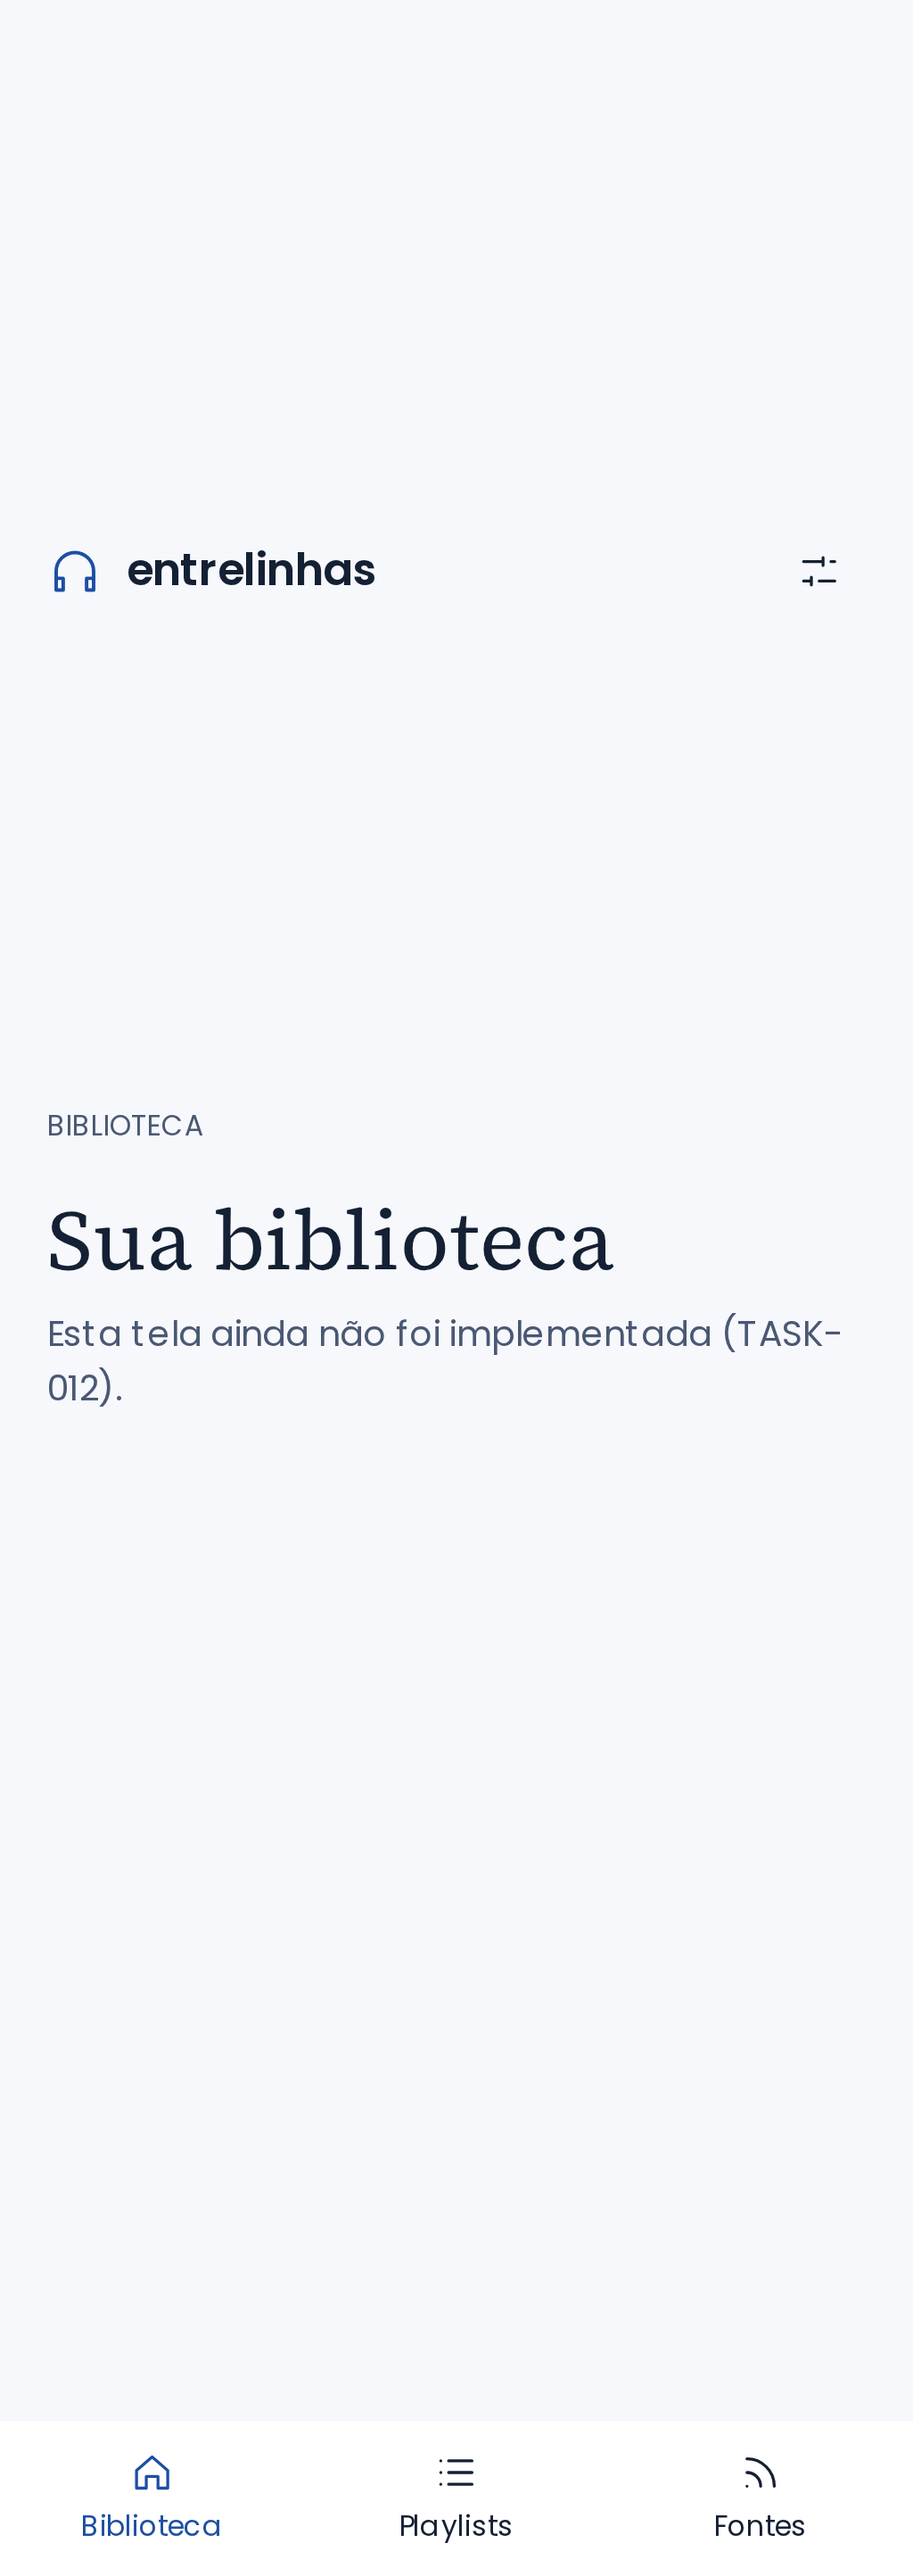
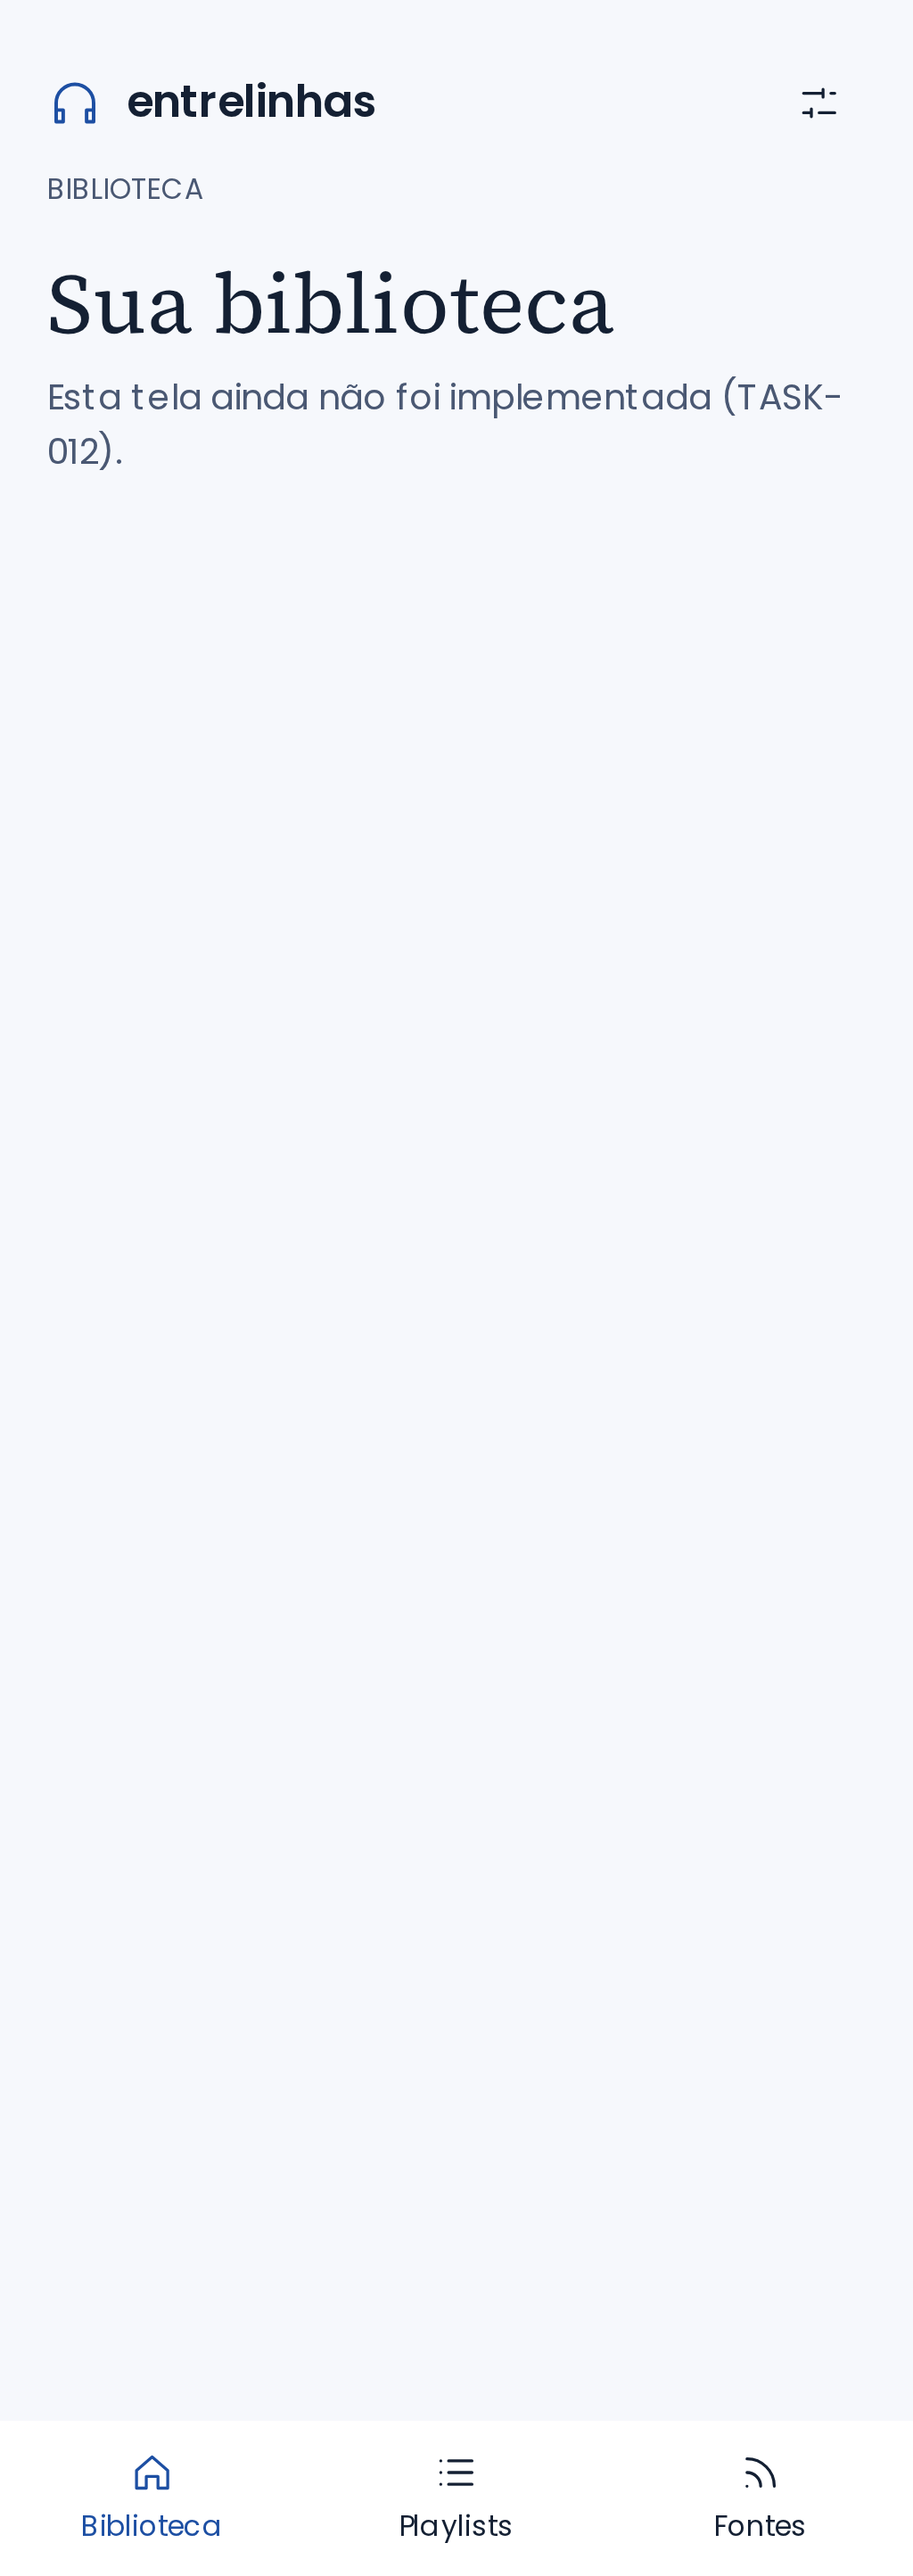
fix(app): mobile layout, menu focus and late logout (TASK-005 re-review)
Second Codex review of 54d6caa; each finding reproduced first:
- mobile grid had min-height 100vh with stretched rows, pushing the header to y=224 CSS px;
  align-content:start, asserted in Chromium mobile (header y < 60) and re-captured evidence.
- choosing a destination in the mobile menu moves focus to <main> instead of losing it.
- logout bumps the session generation before the request, so a login finished meanwhile wins.
Also: fixed two test races (redirect asserted before <Navigate> ran; release before handler)
found while chasing a flaky run; 6 consecutive green runs. RESUME documents that codex exec
needs '< /dev/null' (a worker hung on stdin earlier).

diff --git a/apps/frontend/src/app/session.test.tsx b/apps/frontend/src/app/session.test.tsx
@@ -36,10 +36,22 @@ test('preference update without a session keeps the anonymous state', async () =
 
 test('unmounting during the session load aborts without updating state', async () => {
   let release: () => void = () => undefined;
-  server.use(http.get('/v1/session', () => new Promise<Response>((resolve) => (release = () => resolve(HttpResponse.json({}))))));
+  let called: () => void = () => undefined;
+  const handlerCalled = new Promise<void>((r) => (called = r));
+  server.use(
+    http.get(
+      '/v1/session',
+      () =>
+        new Promise<Response>((resolve) => {
+          release = () => resolve(HttpResponse.json({}));
+          called();
+        }),
+    ),
+  );
   const errors = vi.spyOn(console, 'error').mockImplementation(() => undefined);
   const { unmount } = render(<SessionProvider>conteúdo</SessionProvider>);
   expect(screen.getByText('conteúdo')).toBeInTheDocument();
+  await handlerCalled;
   unmount();
   release();
   await new Promise((r) => setTimeout(r, 20));
@@ -98,5 +110,33 @@ describe('review TASK-005 races', () => {
     release();
     await new Promise((r) => setTimeout(r, 20));
     expect(result.current.state.status).toBe('authenticated');
+  });
+
+  test('a slow logout cannot erase a session obtained afterwards (re-review #3)', async () => {
+    let release: () => void = () => undefined;
+    let called: () => void = () => undefined;
+    const handlerCalled = new Promise<void>((r) => (called = r));
+    server.use(
+      http.delete(
+        '/v1/session',
+        () =>
+          new Promise<Response>((resolve) => {
+            release = () => resolve(new HttpResponse(null, { status: 204 }));
+            called();
+          }),
+      ),
+    );
+    const { result } = renderHook(() => useSession(), { wrapper });
+    await waitFor(() => expect(result.current.state.status).toBe('anonymous'));
+    act(() => result.current.signedIn(sessionFor(0, 'dark')));
+    let pending: Promise<void> = Promise.resolve();
+    act(() => {
+      pending = result.current.signOut();
+    });
+    await handlerCalled;
+    act(() => result.current.signedIn(sessionFor(1, 'dark')));
+    release();
+    await act(() => pending);
+    expect(result.current.state).toMatchObject({ status: 'authenticated', session: { profile: { id: 'prof_ana' } } });
   });
 });

diff --git a/apps/frontend/src/app/AppShell.tsx b/apps/frontend/src/app/AppShell.tsx
@@ -1,5 +1,5 @@
 import { useEffect, useId, useRef, useState } from 'react';
-import { NavLink, Outlet } from 'react-router';
+import { NavLink, Outlet, useLocation } from 'react-router';
 import { Avatar, Badge, Button, Icon, IconButton, Toggle, type IconName } from '../components';
 import type { Session } from '@entrelinhas/contracts';
 import { useSession } from './session';
@@ -62,6 +62,16 @@ export function AppShell() {
   const [menuOpen, setMenuOpen] = useState(false);
   const menuId = useId();
   const menuButton = useRef<HTMLButtonElement>(null);
+  const main = useRef<HTMLElement>(null);
+  const focusMainAfterNavigation = useRef(false);
+  const { pathname } = useLocation();
+
+  // After choosing a destination in the mobile menu the focused link unmounts; move focus to the page.
+  useEffect(() => {
+    if (!focusMainAfterNavigation.current) return;
+    focusMainAfterNavigation.current = false;
+    main.current?.focus();
+  }, [pathname]);
 
   // Escape closes the menu wherever focus is (button or panel) and returns focus to the button.
   useEffect(() => {
@@ -108,12 +118,18 @@ export function AppShell() {
       </header>
       {menuOpen ? (
         <nav id={menuId} aria-label="Menu do perfil" className="shell__mobile-menu">
-          <NavItems unread={unread} onNavigate={() => setMenuOpen(false)} />
+          <NavItems
+            unread={unread}
+            onNavigate={() => {
+              focusMainAfterNavigation.current = true;
+              setMenuOpen(false);
+            }}
+          />
           <ProfileControls session={state.session} />
         </nav>
       ) : null}
 
-      <main className="shell__main">
+      <main ref={main} tabIndex={-1} className="shell__main">
         <Outlet />
       </main>
       <nav aria-label="Atalhos" className="shell__tabbar">

diff --git a/apps/frontend/src/app/shell.test.tsx b/apps/frontend/src/app/shell.test.tsx
@@ -43,8 +43,8 @@ test('signed-in shell shows navigation, current page, profile and unread badge',
 test('root redirects to the library', async () => {
   signedIn();
   const router = renderApp('/');
-  await screen.findByRole('navigation', { name: 'Principal' });
-  expect(router.state.location.pathname).toBe('/library');
+  // The shell renders before the index <Navigate> effect runs, so wait for the redirect itself.
+  await waitFor(() => expect(router.state.location.pathname).toBe('/library'));
 });
 
 test('theme follows the profile preference and the switch persists it (RF40, RF41)', async () => {
@@ -118,6 +118,16 @@ describe('review TASK-005', () => {
     await userEvent.click(within(screen.getByRole('navigation', { name: 'Menu do perfil' })).getByRole('link', { name: 'Capturas privadas' }));
     expect(await screen.findByRole('heading', { level: 1, name: 'Suas capturas privadas' })).toBeInTheDocument();
     expect(menuButton).toHaveAttribute('aria-expanded', 'false');
+  });
+
+  test('keyboard navigation from the menu moves focus to the new page (re-review #2)', async () => {
+    signedIn();
+    renderApp('/library');
+    await userEvent.click(await screen.findByRole('button', { name: 'Menu' }));
+    within(screen.getByRole('navigation', { name: 'Menu do perfil' })).getByRole('link', { name: 'Fontes' }).focus();
+    await userEvent.keyboard('{Enter}');
+    await screen.findByRole('heading', { level: 1, name: 'Fontes monitoradas' });
+    expect(screen.getByRole('main')).toHaveFocus();
   });
 
   test('other keys keep the menu open; the button toggles it closed', async () => {

diff --git a/tests/e2e/shell.spec.ts b/tests/e2e/shell.spec.ts
@@ -8,6 +8,9 @@ test('signed-in shell: navigation, current page and theme switch', async ({ page
   if (info.project.name.includes('mobile')) {
     const tabs = page.getByRole('navigation', { name: 'Atalhos' });
     await expect(tabs).toBeVisible();
+    // Re-review TASK-005 #1: header sits at the top as in frame 16 (brand at y≈44), not pushed down.
+    const header = await page.getByRole('button', { name: 'Menu' }).boundingBox();
+    expect(header?.y).toBeLessThan(60);
     await expect(page.getByRole('navigation', { name: 'Principal' })).toBeHidden();
     await tabs.getByRole('link', { name: 'Playlists' }).click();
     await expect(page.getByRole('heading', { level: 1, name: 'Playlists' })).toBeVisible();

diff --git a/apps/frontend/src/app/session.tsx b/apps/frontend/src/app/session.tsx
@@ -63,9 +63,11 @@ export function SessionProvider({ children }: { children: ReactNode }) {
   }, []);
 
   const signOut = useCallback(async () => {
-    await api.deleteSession();
     generation.current += 1;
-    setState({ status: 'anonymous' });
+    const started = generation.current;
+    await api.deleteSession();
+    // A login completed while the logout was in flight wins over the late logout response.
+    if (generation.current === started) setState({ status: 'anonymous' });
   }, []);
 
   const updatePreferences = useCallback(async (update: PreferencesUpdate) => {

diff --git a/apps/frontend/src/app/shell.css b/apps/frontend/src/app/shell.css
@@ -87,6 +87,7 @@
 
 .shell__main {
   min-width: 0;
+  outline: none;
   padding: 40px 40px 140px;
 }
 
@@ -120,6 +121,7 @@
 @media (max-width: 767px) {
   .shell {
     grid-template-columns: 1fr;
+    align-content: start;
   }
   .shell__sidebar {
     display: none;

diff --git a/docs/tasks/handoffs/TASK-004-005.md b/docs/tasks/handoffs/TASK-004-005.md
@@ -10,3 +10,9 @@
 - **Comparação com frame 01 (dark-desktop):** posições verticais da marca (49), tagline (96→99), itens de navegação (162/214/266/318/370 vs 163/215/267/317/369), eyebrow (48) e título (97) coincidem; conteúdo começa em x=264 como no frame. Quebra de "Capturas privadas" corrigida. Divergências registradas em `docs/design/prototype-map.md`.
 - **Limitações:** telas de S02+ são `PendingPage` explícitas ("ainda não foi implementada"); player e card de status ausentes; nenhuma baseline `toHaveScreenshot` ainda — screenshots são evidência revisada manualmente, não regressão automática (baselines entram com as telas de S02, revisadas).
 - **Próximo:** onda 1 da SPRINT-02 — TASK-010 (Codex, worktree) e TASK-012 (Claude).
+
+## Revisões posteriores (27/10)
+
+- Re-revisão de `54d6caa` (Codex) apontou: layout móvel deslocado (header em y≈224 CSS px), foco perdido ao navegar pelo menu por teclado, logout tardio apagando sessão nova. Os três reproduzidos por testes (e2e para o layout) e corrigidos.
+- **Falha de processo do líder:** a comparação visual anterior só olhou os screenshots desktop; o deslocamento móvel estava visível na evidência commitada. A partir de agora a revisão visual cobre todos os viewports da evidência.
+- Teste instável encontrado (redirect `/` → `/library` assertado antes do efeito do `<Navigate>`): causa corrigida no teste, 6 execuções seguidas verdes; nenhum retry usado como aceitação.

diff --git a/docs/implementation/RESUME.md b/docs/implementation/RESUME.md
@@ -10,7 +10,8 @@
    git worktree add ../entrelinhas-wt/TASK-XXX -b task/TASK-XXX-slug main
    (cd ../entrelinhas-wt/TASK-XXX && npm ci)
    codex exec -C ../entrelinhas-wt/TASK-XXX -s workspace-write \
-     "Você é worker da TASK-XXX. Use as skills parallel-task, frontend-tdd e prototype-guided-ui. Leia docs/tasks/TASK-XXX.md e AGENTS.md. Implemente, comite na branch e escreva o handoff."
+     "Você é worker da TASK-XXX. Use as skills parallel-task, frontend-tdd e prototype-guided-ui. Leia docs/tasks/TASK-XXX.md e AGENTS.md. Implemente, comite na branch e escreva o handoff." < /dev/null
+   # < /dev/null é obrigatório: sem ele `codex exec` fica esperando stdin indefinidamente (ocorrido em 27/10).
    ```
 7. Após integrar: atualizar STATUS, traceability e este arquivo se o procedimento mudar.
 
